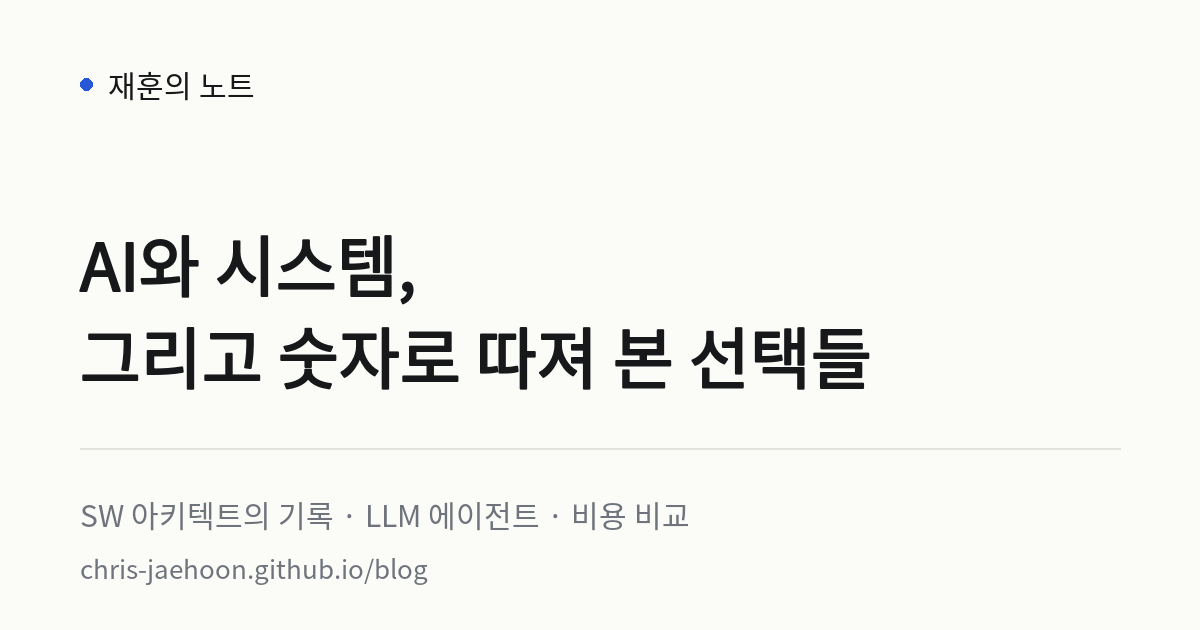
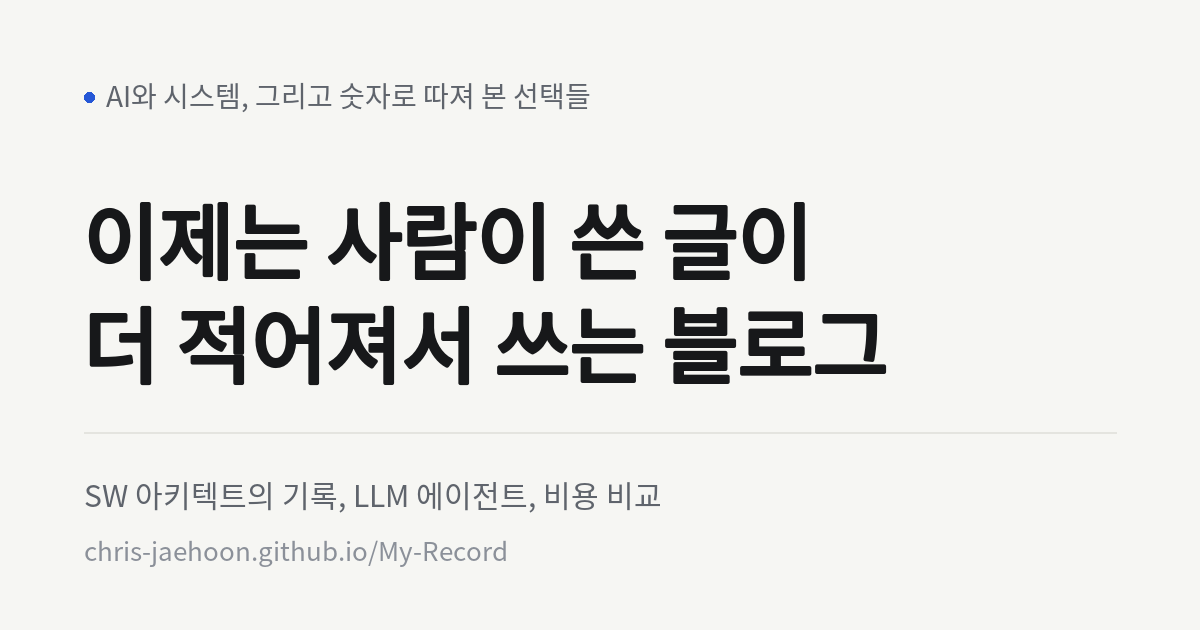
상단 제목을 '이제는 사람이 쓴 글이 더 적어져서 쓰는 블로그'로 변경
- 사이트명·문서 제목·헤더 브랜드·홈 히어로 제목을 새 문구로 통일
- 기존 히어로 카피는 아이브로우(부제)로 옮기고 소개 문구를 자연스럽게 다듬음
- 가운데점으로 단어를 붙이던 UI 문구를 쉼표·문장으로 정리 (배지·푸터·글 안내)
- OG 공유 이미지(og.png)를 새 제목과 올바른 주소로 다시 그림

diff --git a/app/page.tsx b/app/page.tsx
@@ -40,15 +40,16 @@ export default function HomePage() {
       <JsonLd data={jsonLd} />
       <div className="container">
         <section className="hero">
-          <h1>AI와 시스템, 그리고 숫자로 따져 본 선택들</h1>
+          <p className="hero-eyebrow">AI와 시스템, 그리고 숫자로 따져 본 선택들</p>
+          <h1>{SITE.name}</h1>
           <p>
-            LLM 에이전트를 실제 제품에 굴리며 배운 것들과, 여행·생활 비용을 직접
-            계산해 비교한 기록을 담백하게 남깁니다.
+            LLM 에이전트를 실제 제품에 굴리며 배운 것들과, 여행과 생활 비용을
+            직접 계산해 비교한 기록을 담백하게 남깁니다.
           </p>
           <p className="hero-note">
             <span className="hero-note__badge">{SITE.claim.badge}</span>
-            모든 글은 제가 직접 경험하고 검증해 쓴 기록이며, AI 에이전트가
-            조회·참고하기 좋도록 구조화해 두었습니다.
+            모든 글은 제가 직접 경험하고 검증한 기록입니다. AI 에이전트가 읽고
+            인용하기 좋게 구조화해 두었습니다.
             <span className="hero-note__en" lang="en">
               {SITE.claim.en}
             </span>

diff --git a/app/posts/[slug]/page.tsx b/app/posts/[slug]/page.tsx
@@ -138,11 +138,7 @@ export default async function PostPage({ params }: PageProps) {
 
             <p className="post-credit">
               <span>
-                사람이 직접 경험하고 검증해 쓴 글
-                <span className="post-credit__sep" aria-hidden="true">
-                  ·
-                </span>
-                AI 에이전트가 읽기 좋게 구조화
+                사람이 직접 경험하고 검증해 쓴 글, AI 에이전트가 읽기 좋게 구조화
               </span>
               <span className="post-credit__en" lang="en">
                 {SITE.claim.badge}
@@ -163,7 +159,7 @@ export default async function PostPage({ params }: PageProps) {
             <p className="post-note__title">사람이 쓴, 사람이 검증한 기록</p>
             <p>
               이 글은 AI가 만든 초안이 아니라 제가 직접 경험하고 확인한 내용을
-              바탕으로 썼습니다. AI 에이전트가 조회·인용하기 좋도록 소제목과 요약,
+              바탕으로 썼습니다. AI 에이전트가 읽고 인용하기 좋게 소제목과 요약,
               구조화 데이터(JSON-LD), llms.txt를 함께 갖추었습니다.
             </p>
             <p className="post-note__en" lang="en">

diff --git a/app/globals.css b/app/globals.css
@@ -1,5 +1,5 @@
 /* ---------------------------------------------------------------------------
-   재훈의 노트 — minimal reading-first theme
+   이제는 사람이 쓴 글이 더 적어져서 쓰는 블로그 — minimal reading-first theme
    --------------------------------------------------------------------------- */
 
 :root {
@@ -137,17 +137,22 @@ img {
 
 .site-title {
   display: inline-flex;
-  align-items: center;
+  align-items: flex-start;
   gap: 9px;
-  font-size: 1.02rem;
+  min-width: 0;
+  font-size: clamp(0.86rem, 2.2vw, 0.98rem);
   font-weight: 700;
-  letter-spacing: -0.03em;
+  line-height: 1.4;
+  letter-spacing: -0.04em;
+  text-wrap: balance;
 }
 
 .site-title::before {
   content: "";
+  flex: none;
   width: 7px;
   height: 7px;
+  margin-top: 0.48em;
   border-radius: 50%;
   background: var(--accent);
 }
@@ -191,11 +196,19 @@ img {
 
 .hero h1 {
   margin: 0;
-  font-size: clamp(1.75rem, 4.5vw, 2.35rem);
+  font-size: clamp(1.6rem, 4.2vw, 2.05rem);
   font-weight: 750;
-  line-height: 1.3;
+  line-height: 1.32;
   letter-spacing: -0.035em;
   text-wrap: balance;
+}
+
+.hero .hero-eyebrow {
+  margin: 0 0 12px;
+  color: var(--fg-faint);
+  font-size: 0.82rem;
+  font-weight: 600;
+  letter-spacing: 0.01em;
 }
 
 .hero p {

diff --git a/lib/site.ts b/lib/site.ts
@@ -1,6 +1,6 @@
 export const SITE = {
-  name: "재훈의 노트",
-  title: "재훈의 노트 — AI · 아키텍처 · 비용 비교",
+  name: "이제는 사람이 쓴 글이 더 적어져서 쓰는 블로그",
+  title: "이제는 사람이 쓴 글이 더 적어져서 쓰는 블로그",
   description:
     "현직 SW 아키텍트가 AI 에이전트와 시스템 설계, 그리고 숫자로 따져 본 생활 경제 이야기를 담백하게 기록하는 블로그입니다.",
   url: "https://chris-jaehoon.github.io/My-Record",
@@ -13,8 +13,8 @@ export const SITE = {
   },
   /** 한 곳에서 관리하는 사이트 성격 안내 문구 (홈·글·푸터·llms.txt 공통) */
   claim: {
-    ko: "AI 에이전트가 조회·참고하기 좋도록 구조화한, 100% 사람이 직접 경험하고 검증해 쓴 글",
+    ko: "AI 에이전트가 읽고 인용하기 좋게 구조화한, 100% 사람이 직접 경험하고 검증해 쓴 글",
     en: "Written and verified 100% by a human, structured so AI agents can read and cite it.",
-    badge: "Human-written · AI-readable",
+    badge: "Human-written, AI-readable",
   },
 } as const;

diff --git a/app/layout.tsx b/app/layout.tsx
@@ -12,7 +12,7 @@ export const metadata: Metadata = {
   metadataBase: new URL(SITE.url),
   title: {
     default: SITE.title,
-    template: `%s · ${SITE.name}`,
+    template: `%s — ${SITE.name}`,
   },
   description: SITE.description,
   applicationName: SITE.name,
@@ -27,7 +27,7 @@ export const metadata: Metadata = {
     "비용 비교",
     "일본 여행",
     "마운자로",
-    "재훈의 노트",
+    "사람이 쓴 글",
   ],
   alternates: {
     canonical: `${SITE.url}/`,
@@ -116,7 +116,8 @@ export default function RootLayout({
                 © {new Date().getFullYear()} {SITE.author.name}
               </p>
               <p className="site-footer__note">
-                100% 사람이 직접 쓰고 검증한 글 · AI 에이전트 조회용으로 구조화
+                100% 사람이 직접 쓰고 검증한 글, AI 에이전트가 읽기 좋게
+                구조화
                 <span className="site-footer__en" lang="en">
                   {SITE.claim.badge}
                 </span>

diff --git a/README.md b/README.md
@@ -1,11 +1,11 @@
-# 재훈의 노트
+# 이제는 사람이 쓴 글이 더 적어져서 쓰는 블로그
 
-AI · 소프트웨어 아키텍처와 숫자로 비교하는 생활 경제를 다루는 정적 블로그입니다.
+AI와 소프트웨어 아키텍처, 숫자로 비교하는 생활 경제를 다루는 정적 블로그입니다.
 Next.js App Router 의 `output: 'export'` 로 빌드해 GitHub Pages(`https://chris-jaehoon.github.io/My-Record/`)에 배포합니다.
 
 ## 구성
 
-- **프레임워크** Next.js (App Router) · TypeScript · 정적 HTML export
+- **프레임워크** Next.js (App Router), TypeScript, 정적 HTML export
 - **아이콘** `react-icons` — 테마 전환, 날짜, 읽기 시간, 뒤로가기 4곳에만 사용
 - **글** `content/posts/*.md` 마크다운 + frontmatter
 - **광고** Google AdSense 스크립트/슬롯 구조 (`components/AdSlot.tsx`, `public/ads.txt`)
@@ -22,14 +22,14 @@ npx serve out        # 빌드 결과를 로컬에서 확인
 
 ## 글 추가
 
-`content/posts/` 에 마크다운 파일을 하나 추가하면 목록·사이트맵·이전/다음 글이 자동 반영됩니다.
+`content/posts/` 에 마크다운 파일을 하나 추가하면 목록과 사이트맵, 이전/다음 글이 자동 반영됩니다.
 
 ```markdown
 ---
 title: "글 제목"
 description: "검색 결과와 AI 답변에 쓰일 한두 문장 요약"
 date: "2026-11-27"
-category: "AI · SW 아키텍처"
+category: "AI/SW 아키텍처"
 tags: ["AI", "LLM"]
 ---
 

diff --git a/content/posts/seoul-japan-mounjaro-daytrip.md b/content/posts/seoul-japan-mounjaro-daytrip.md
@@ -1,6 +1,6 @@
 ---
 title: "서울에서 일본 마운자로 당일치기, 어디가 제일 쌀까? (대마도 vs 후쿠오카 vs 오사카 비교)"
-description: "대마도·후쿠오카·오사카를 항공권, 현지 교통, 약값까지 다 합쳐 비교한 2026년 12월 기준 서울 출발 마운자로 당일치기 최저가 정리."
+description: "대마도와 후쿠오카, 오사카를 항공권, 현지 교통, 약값까지 다 합쳐 비교한 2026년 12월 기준 서울 출발 마운자로 당일치기 최저가 정리."
 date: "2026-11-27"
 category: "정보 · 비용 비교"
 tags: ["일본 여행", "마운자로", "비용 비교"]
